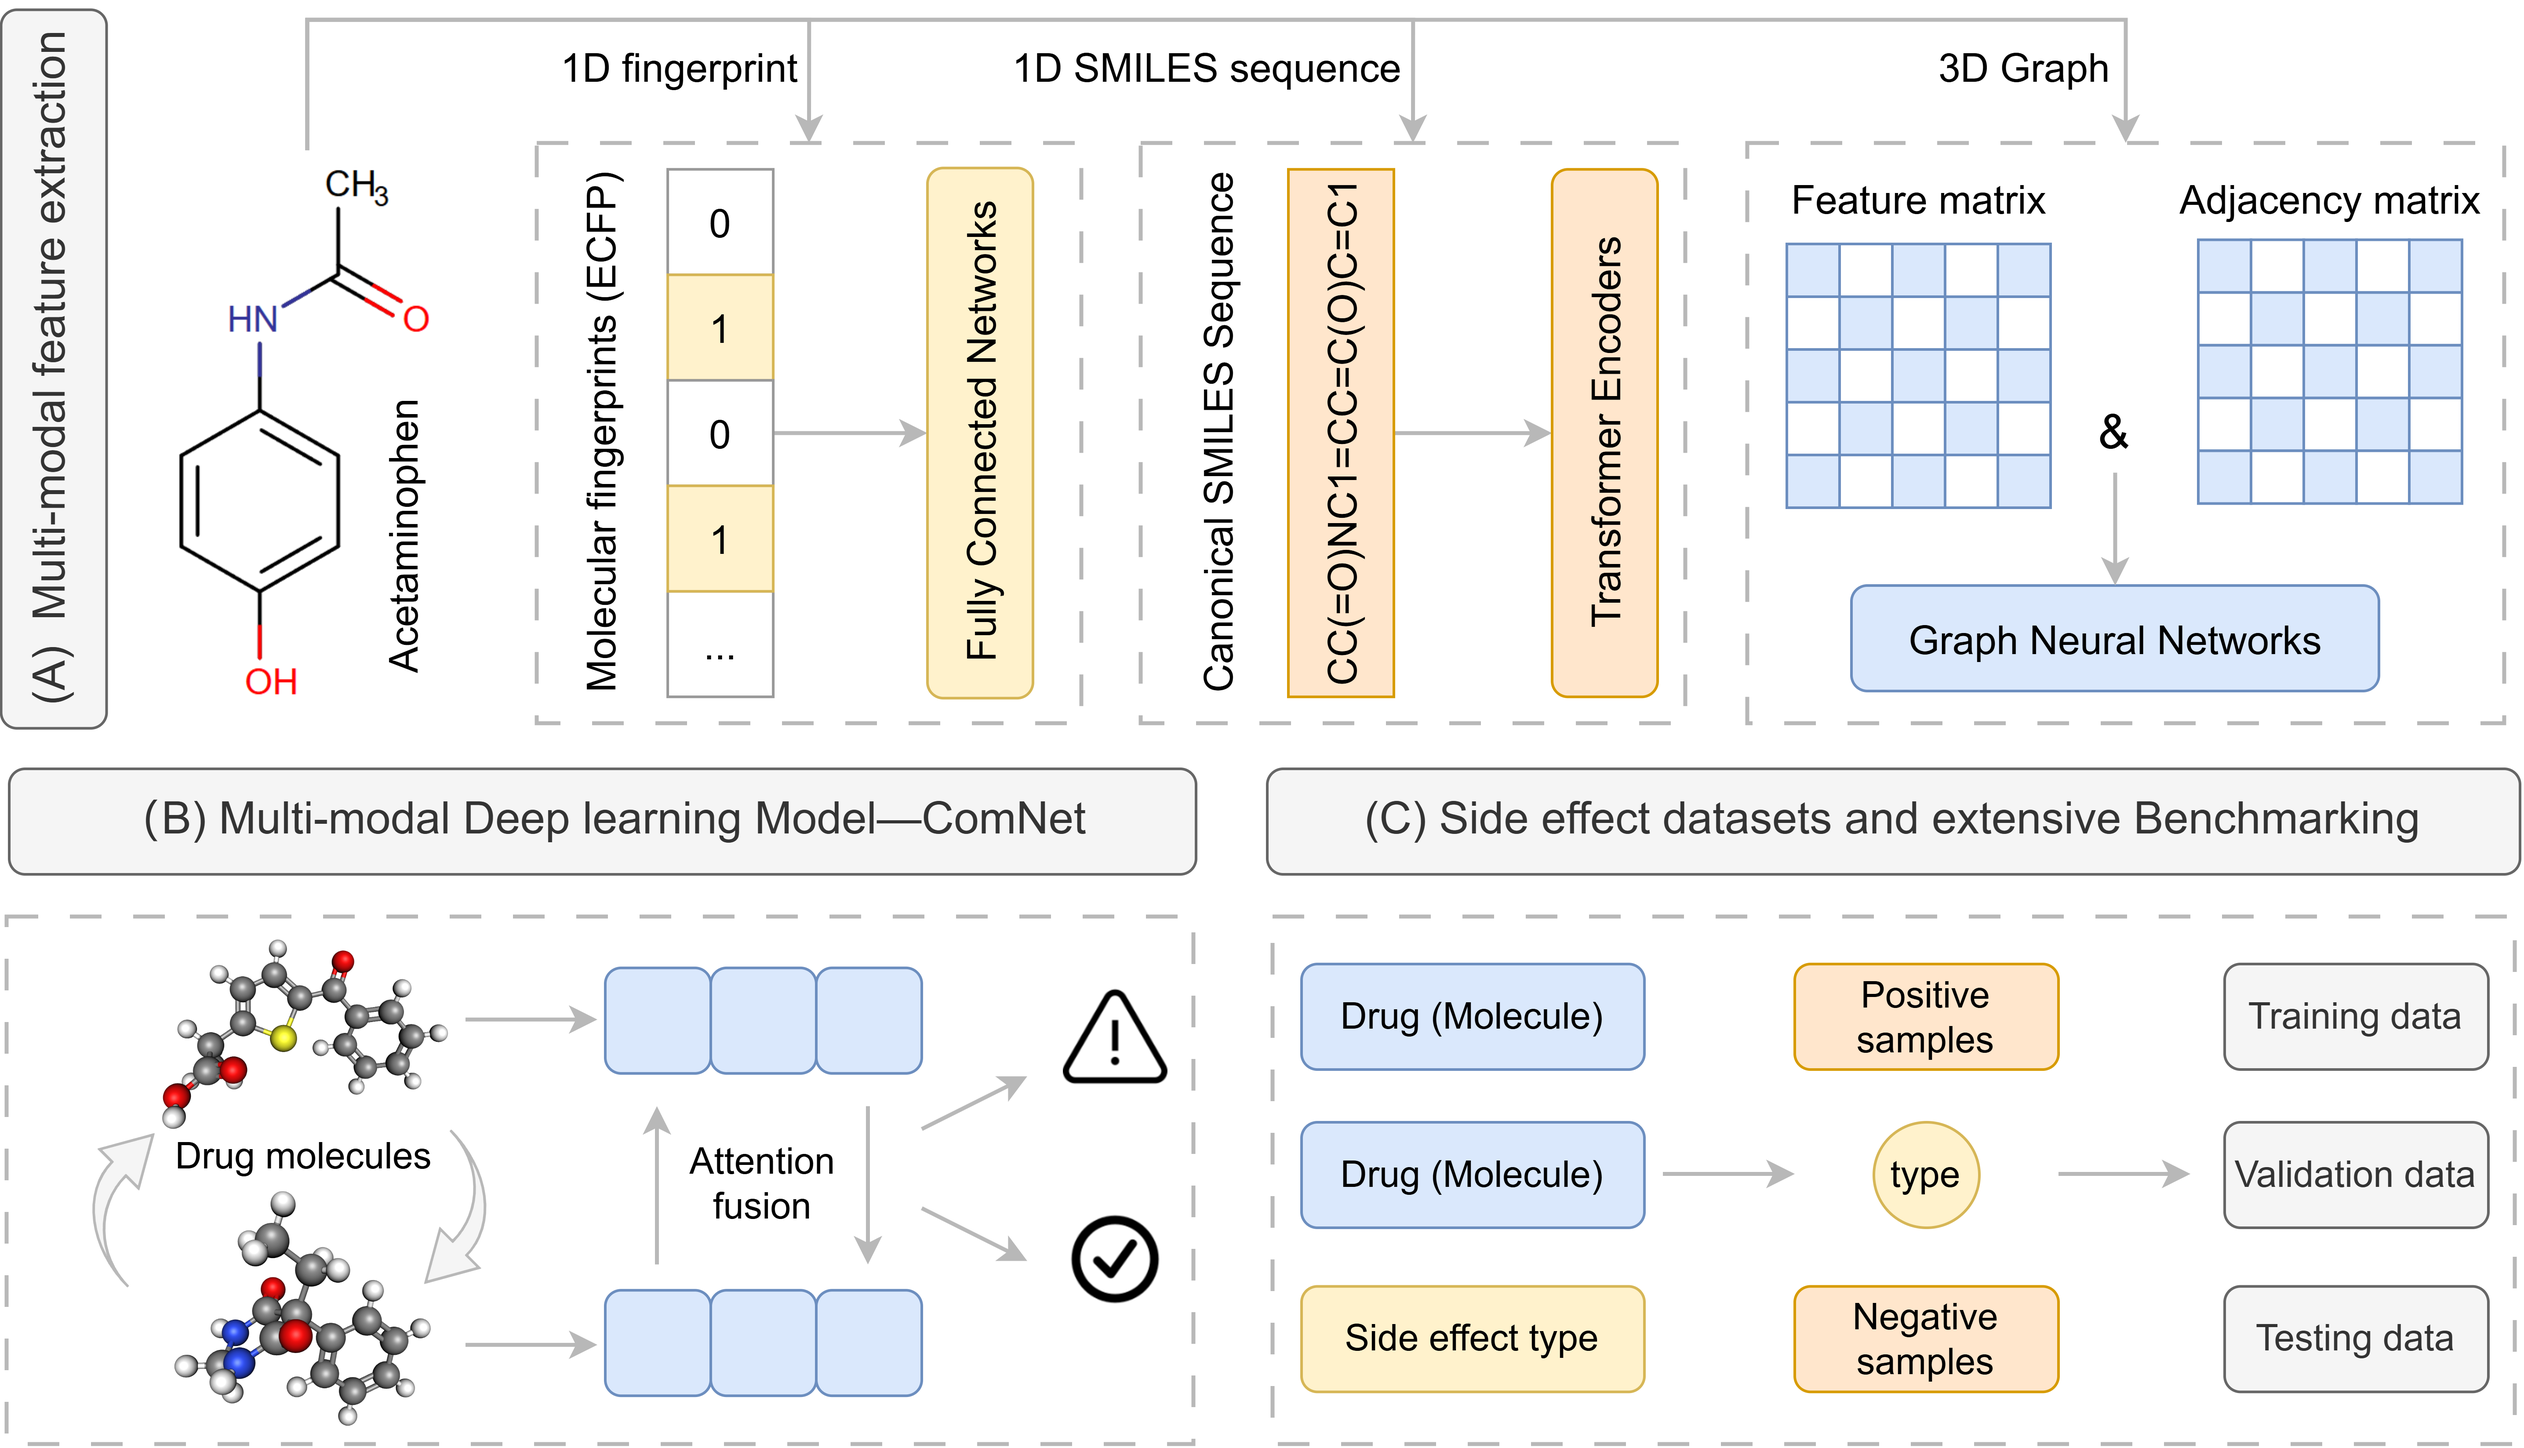
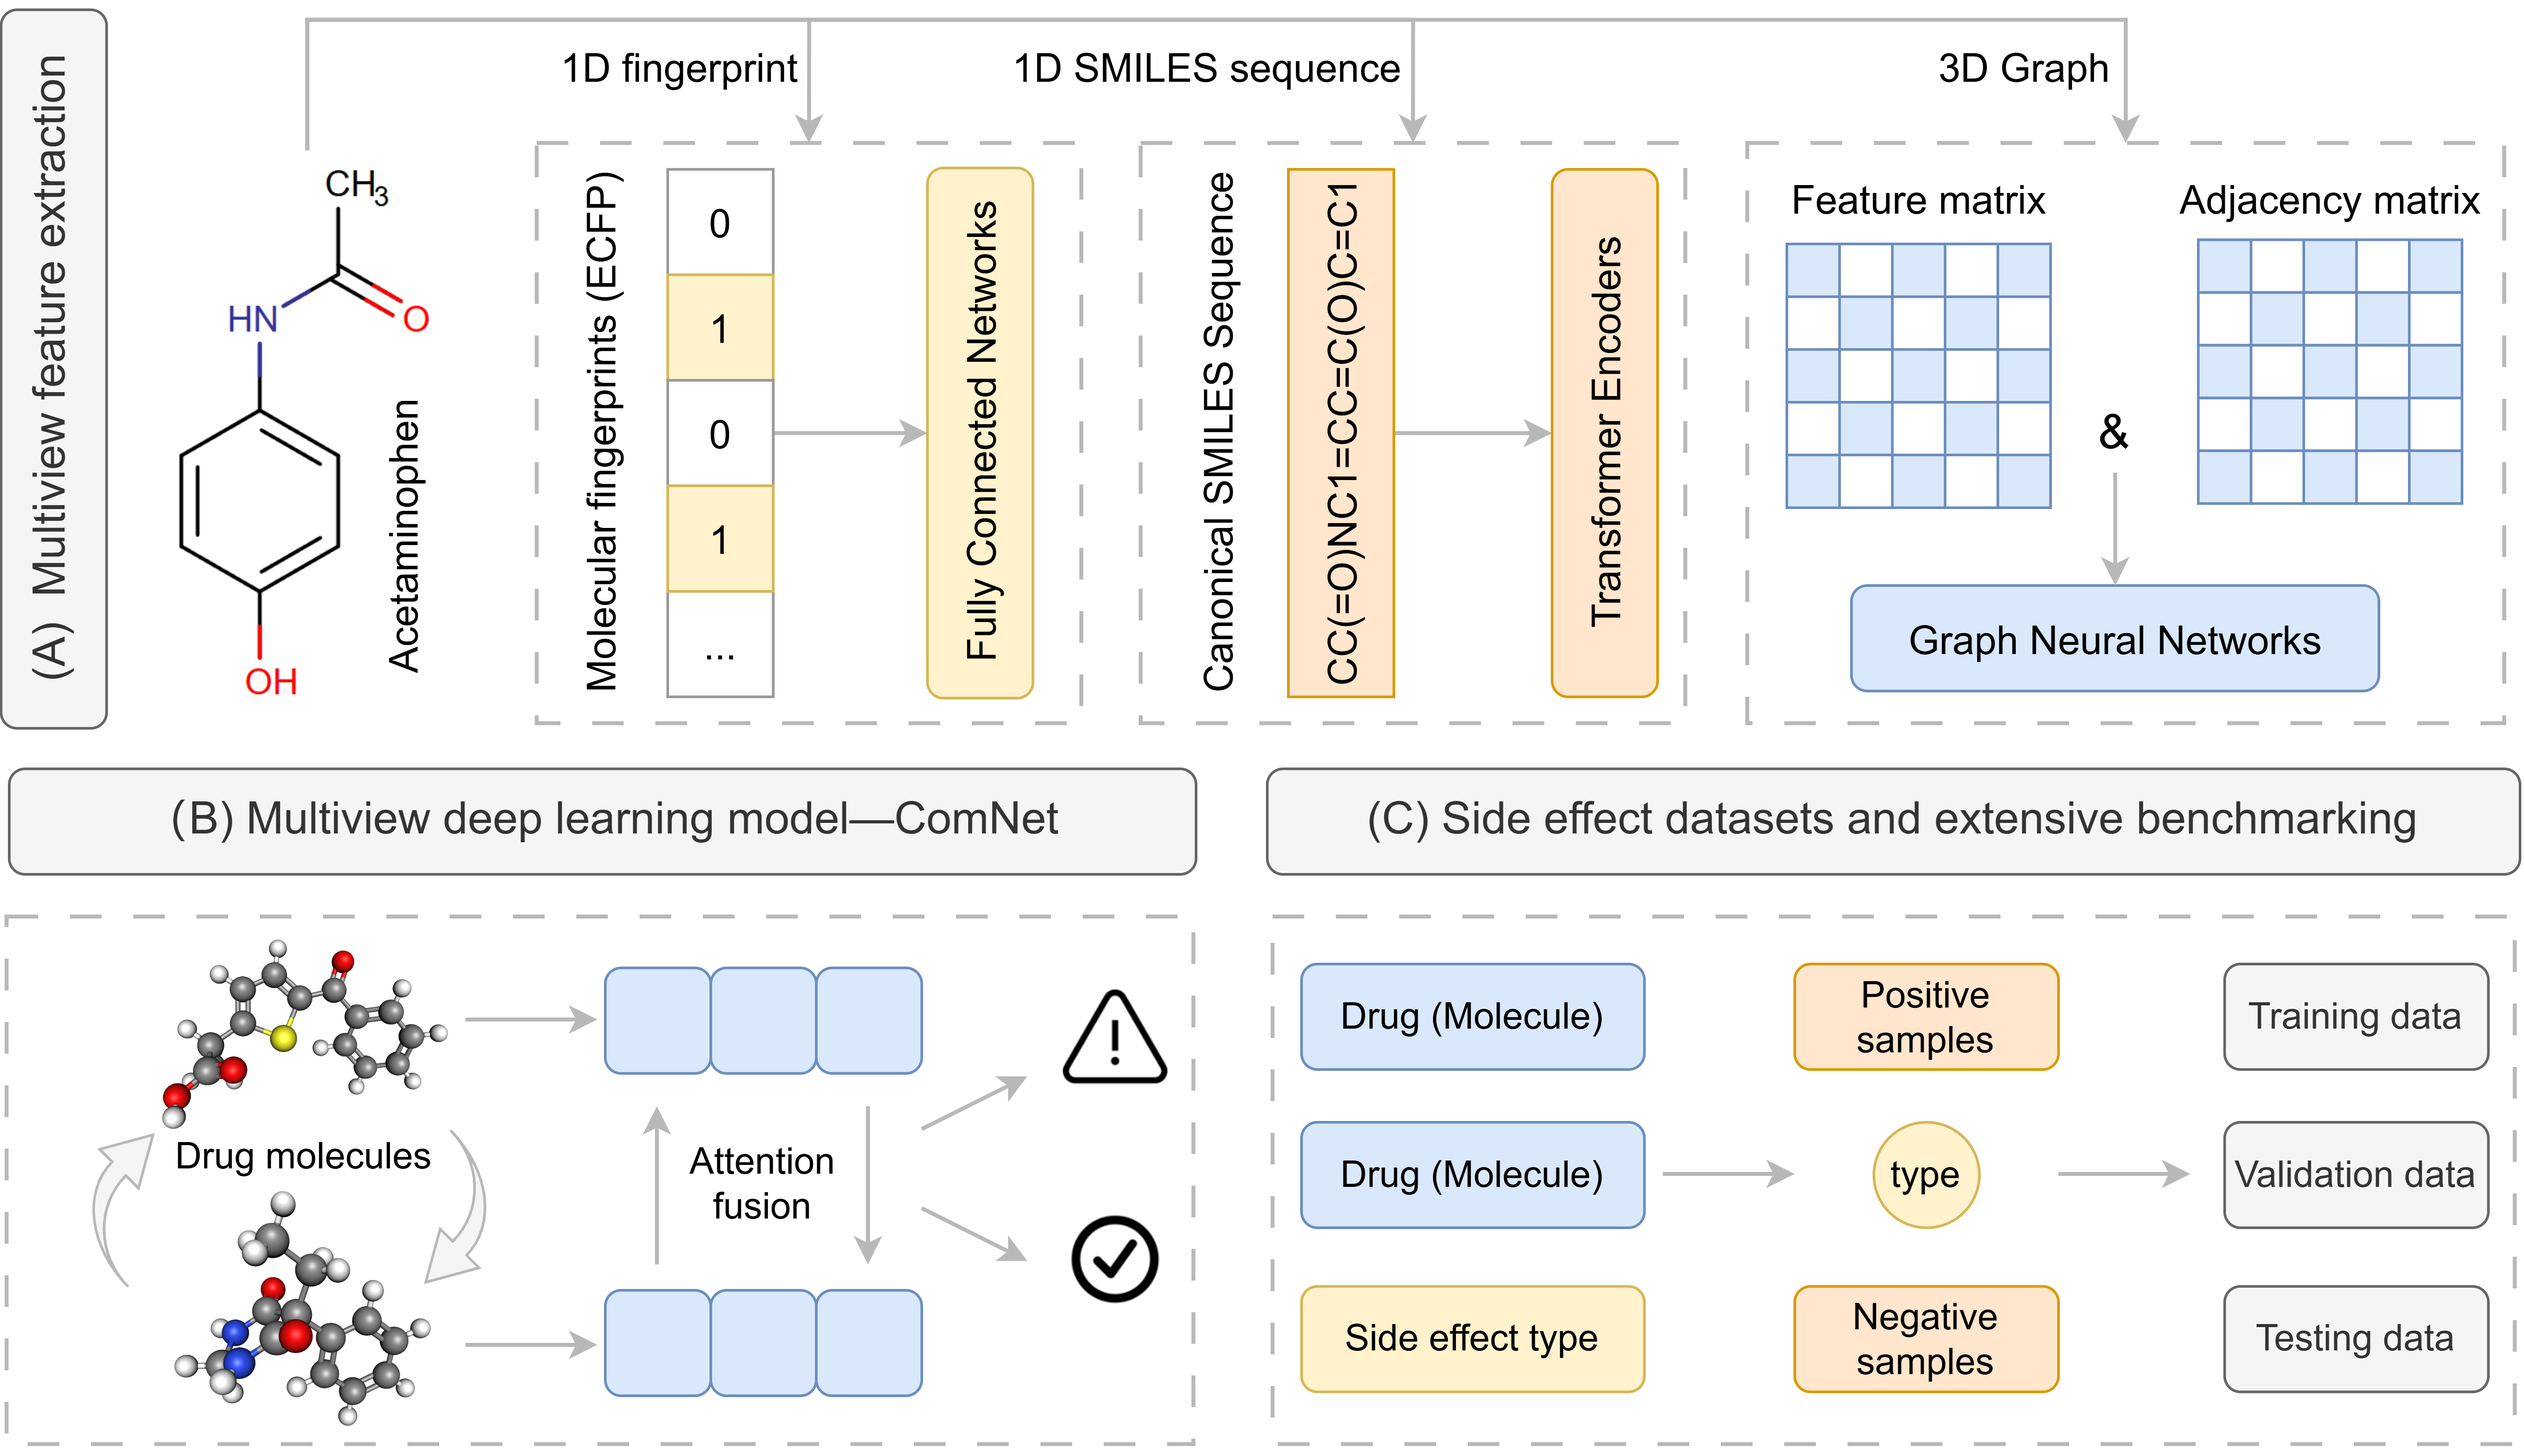
reference

Changed region(s): [[0.0, 0.031, 0.0312, 0.4954], [0.53, 0.5574, 0.9664, 0.5883], [0.0623, 0.5574, 0.4364, 0.5883]]

diff --git a/readme.md b/readme.md
@@ -1,4 +1,4 @@
-# ComNet: A Multi-View Deep Learning Model for Predicting Drug Combination Side Effects
+# ComNet: A Multiview Deep Learning Model for Predicting Drug Combination Side Effects
 
 [![Python 3.7](https://img.shields.io/badge/Python-3.7-blue)]()
 [![PyTorch 1.10+](https://img.shields.io/badge/PyTorch-1.10%2B-red)]()
@@ -110,13 +110,15 @@ ComNet is designed specifically for predicting side effects caused by drug combi
 ## 📄 Citation
 If you use ComNet in your research or have been inspired by it, please cite the following paper:
 ```text
-@article{,
-  title={ComNet: A Multi-View Deep Learning Model for Predicting Drug Combination Side Effects},
-  author={},
-  journal={},
-  year={2024},
-  volume={X},
-  number={Y},
-  pages={Z-Z},
+@ARTICLE{Zhang2025-lz,
+  title     = "{ComNet}: A Multiview Deep Learning Model for Predicting Drug
+               Combination Side Effects",
+  author    = "Zhang, Zuolong and Liu, Fang and Shang, Xiaonan and Chen,
+               Shengbo and Zuo, Fang and Wu, Yi and Long, Dazhi",
+  journal   = "J. Chem. Inf. Model.",
+  publisher = "American Chemical Society",
+  month     =  jan,
+  year      =  2025
 }
+
 ```
